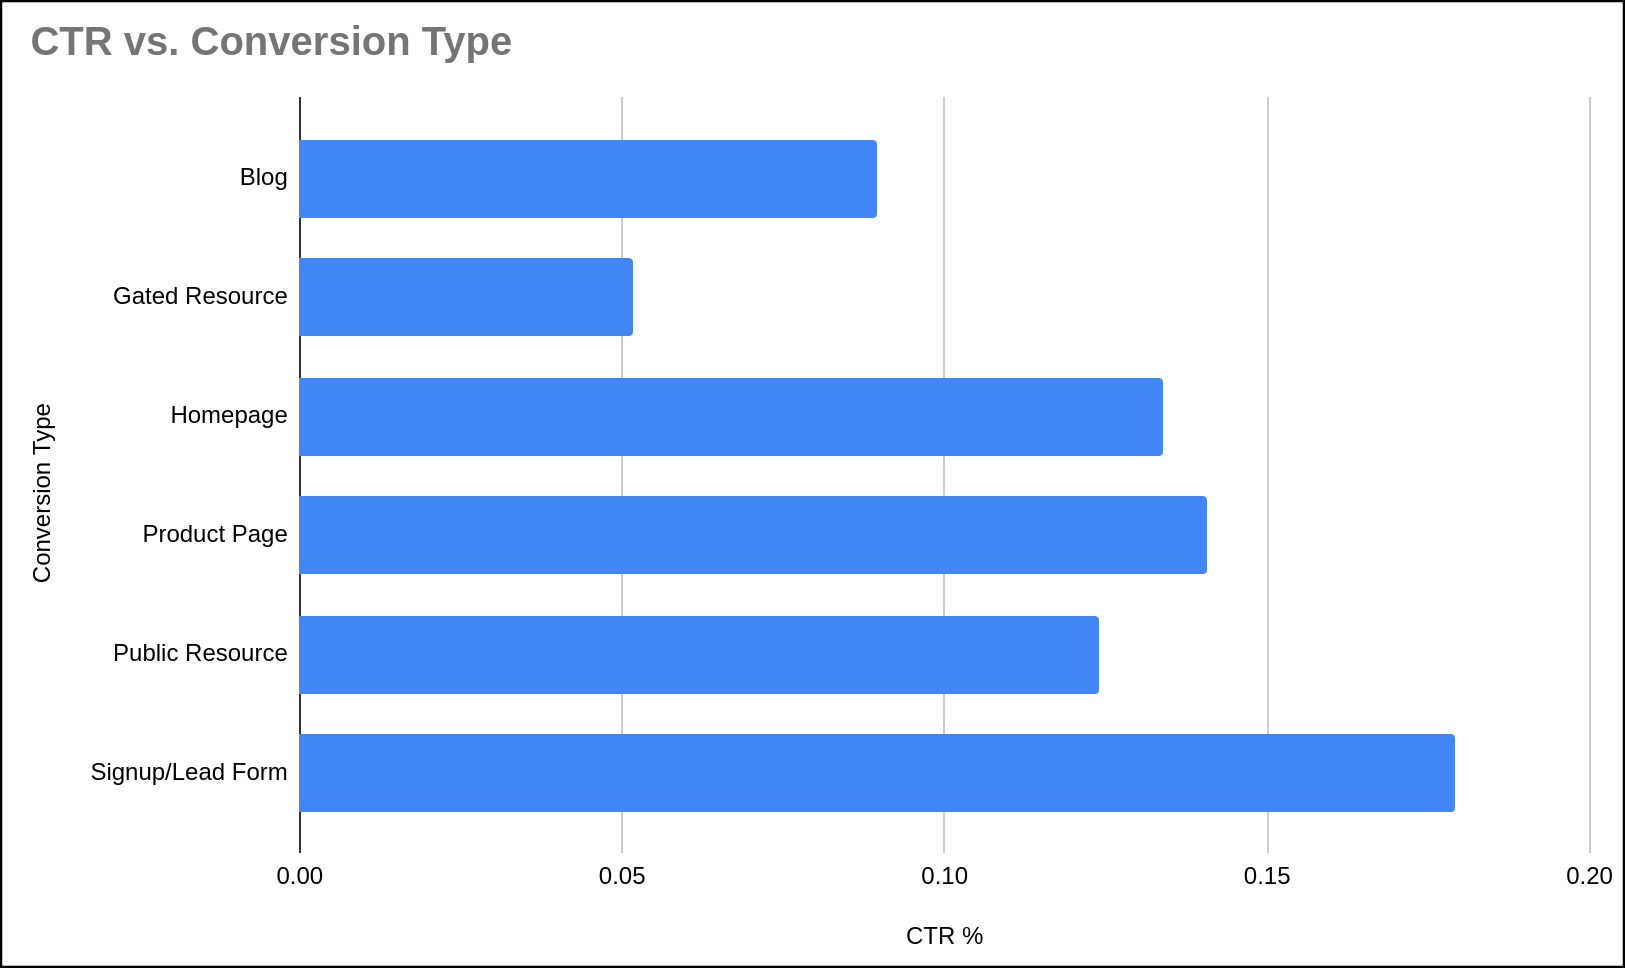
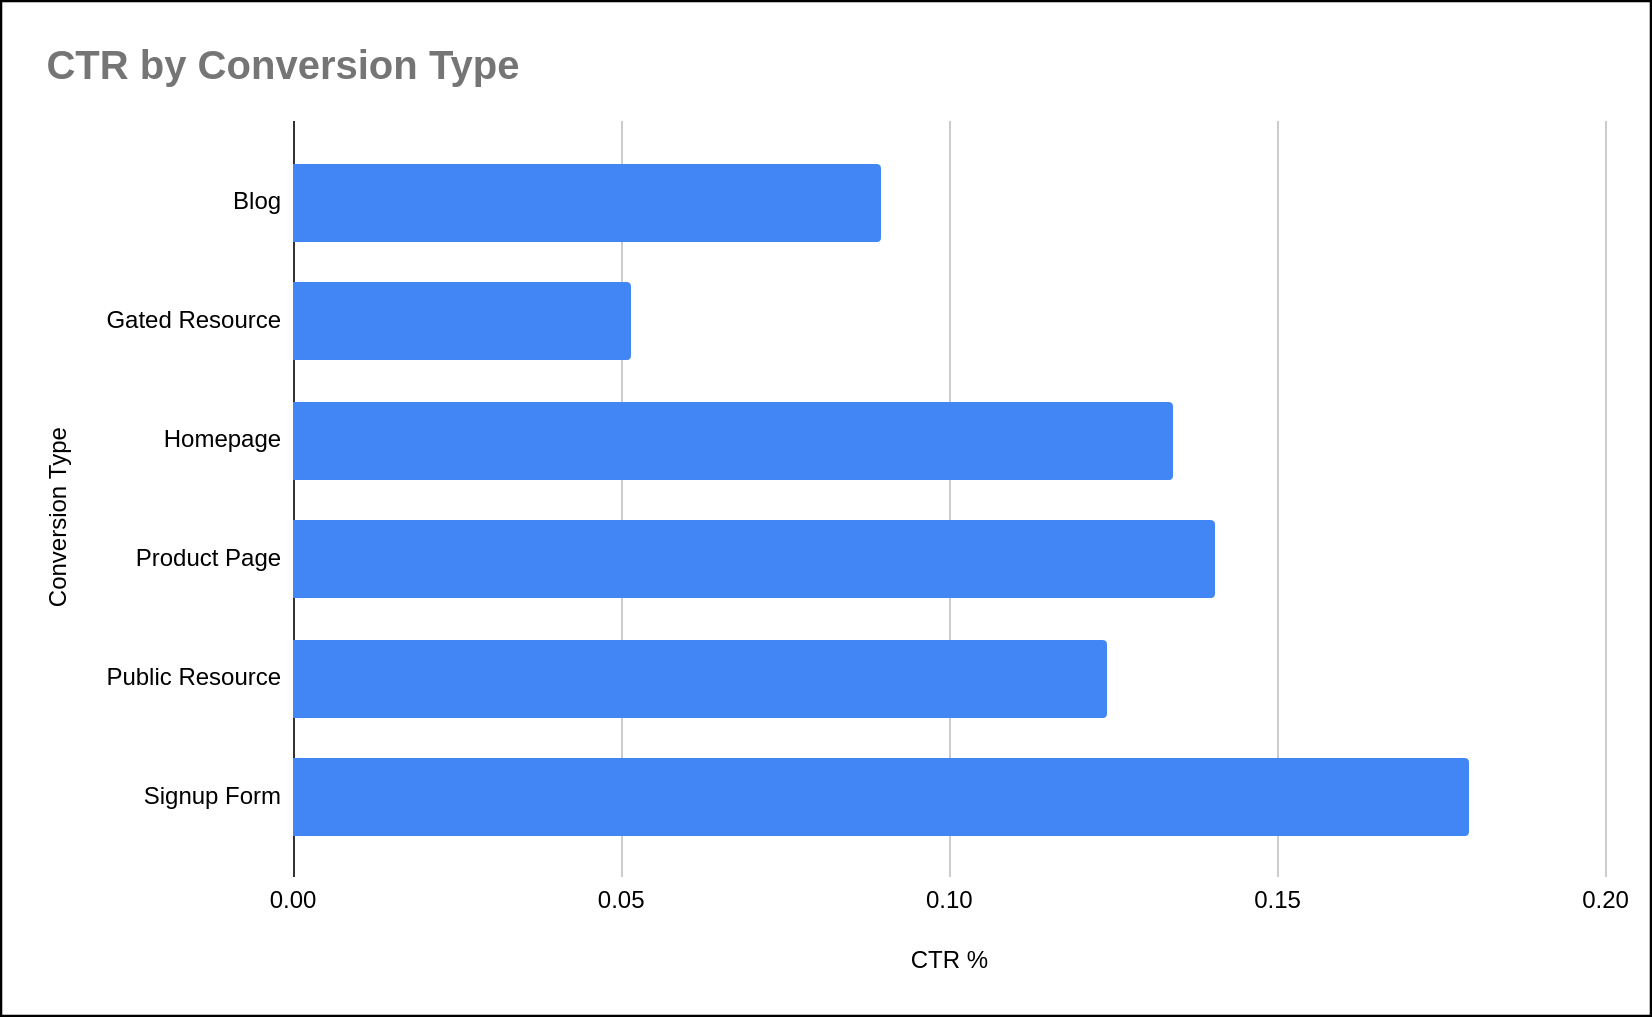
Update graph image and add blog billboard image

diff --git a/content/posts/2024-best-performing-ads-by-conversion-type.md b/content/posts/2024-best-performing-ads-by-conversion-type.md
@@ -3,8 +3,8 @@ Date: October 29, 2024
 description: As a marketer, should your ads link directly to a lead-gen form? Produce a gated resource like a webinar or ebook? Or go for the long sale and link to a blog with details about your product?
 tags: advertisers, marketing, data-exploration
 authors: David Fischer
-image: /images/posts/2024-cookieless-advertising.jpg
-image_credit: <span>Created with <a href="https://openjourney.ai/" title="creepy ad targeting, invasive advertising, personalized advertising, ads that know what you think, ads that follow you around the internet, watercolor style">OpenJourney</a></span>
+image: /images/posts/2024-ad-conversion-type-billboard-image.jpg
+image_credit: <span>Created with <a href="https://chatgpt.com/" title="advertising that knows what you think, billboards, future in an art sketch or watercolor style">ChatGPT</a></span>
 
 
 Digital marketing is all about generating conversions,
@@ -33,7 +33,7 @@ and we saw that text-heavy ad images were among the lowest performers.
 This time, we categorized all the ads shown on EthicalAds for the last month
 by the desired marketing action and compared it with the click-through rate.
 
-* **Signup form:** The ad linked to a page where a form was the primary above the fold action, generally with a free trial. 
+* **Signup form:** The ad linked to a page where a form was the primary above the fold action, generally with a free trial.
 * **Product page:** The ad linked directly to a landing or product page on the advertiser's website
 * **Homepage:** The ad linked to the advertiser's main home page. In the cases where this works well, the homepage is probably very similar to a product page such as for an advertiser who sells a single product.
 * **Public resource:** The ad linked to a public resource the advertiser created like an ebook, a video, or the product documentation.
